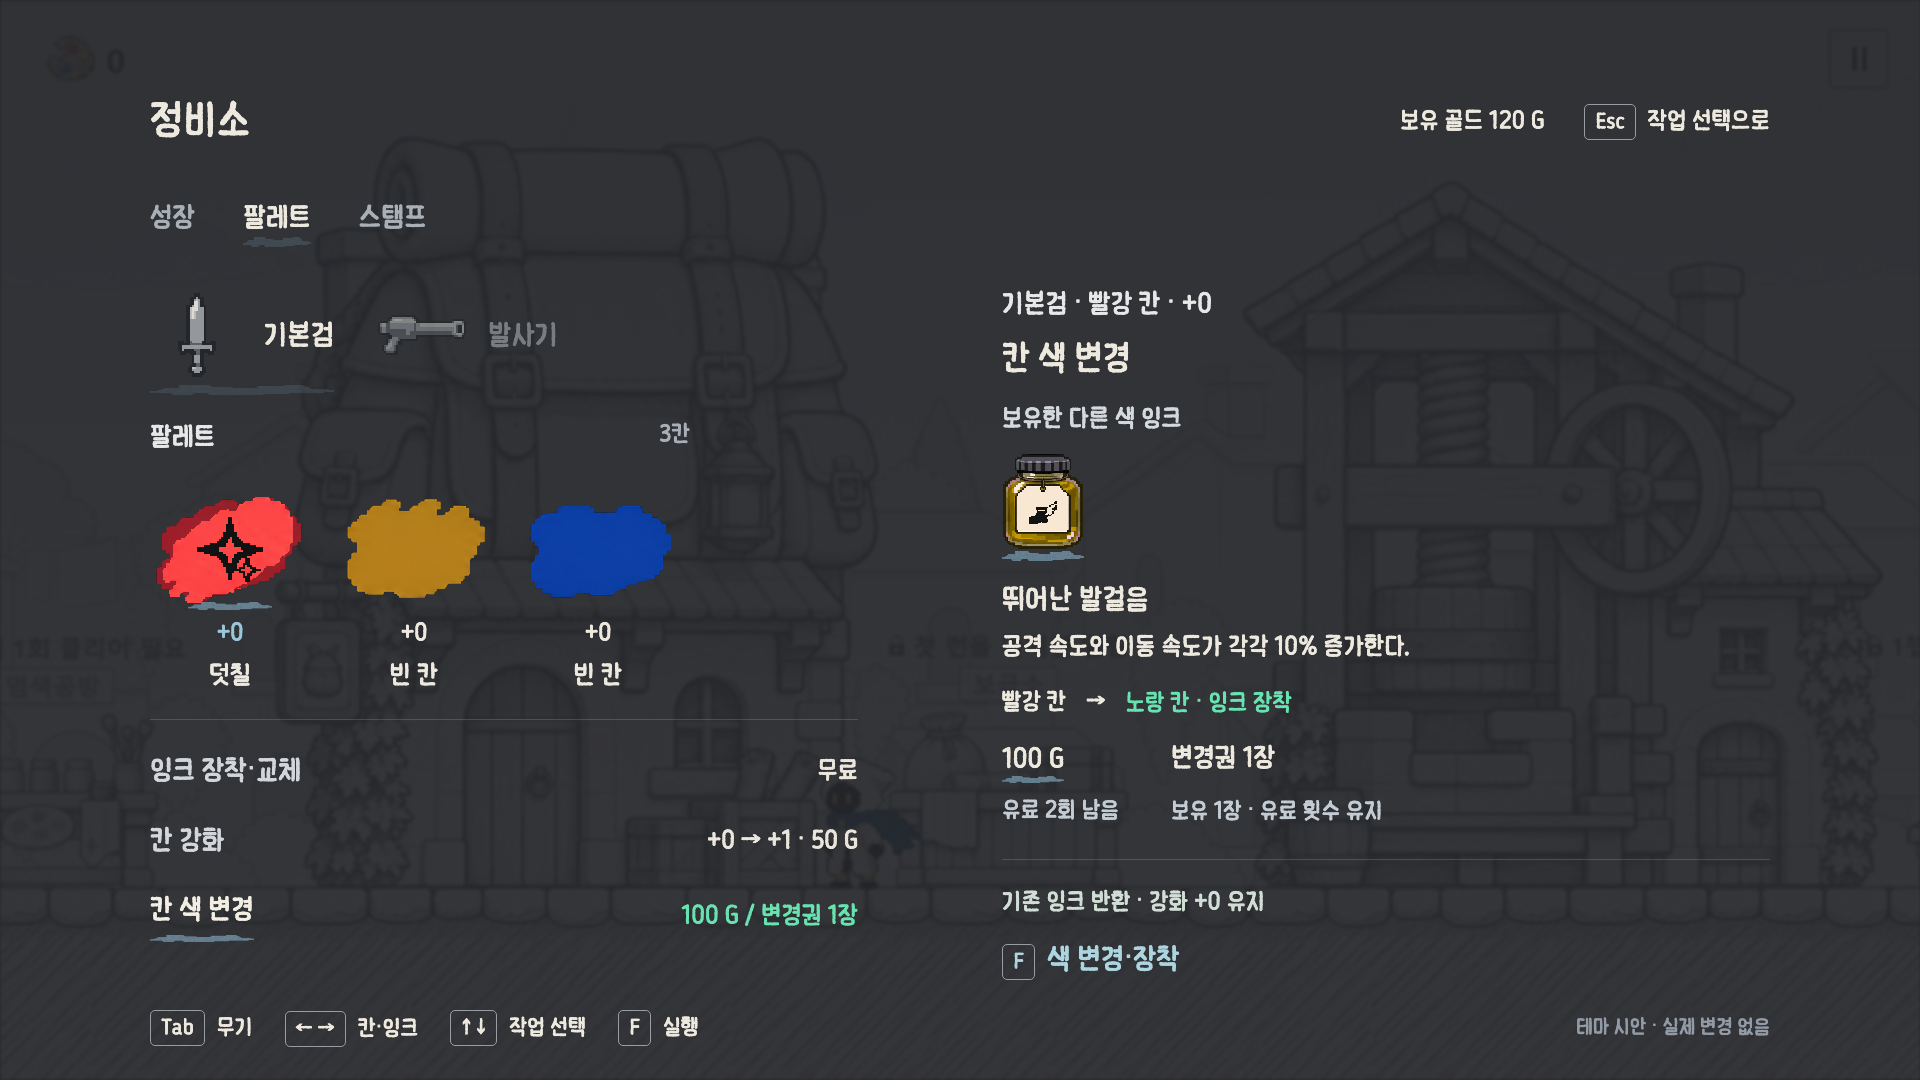
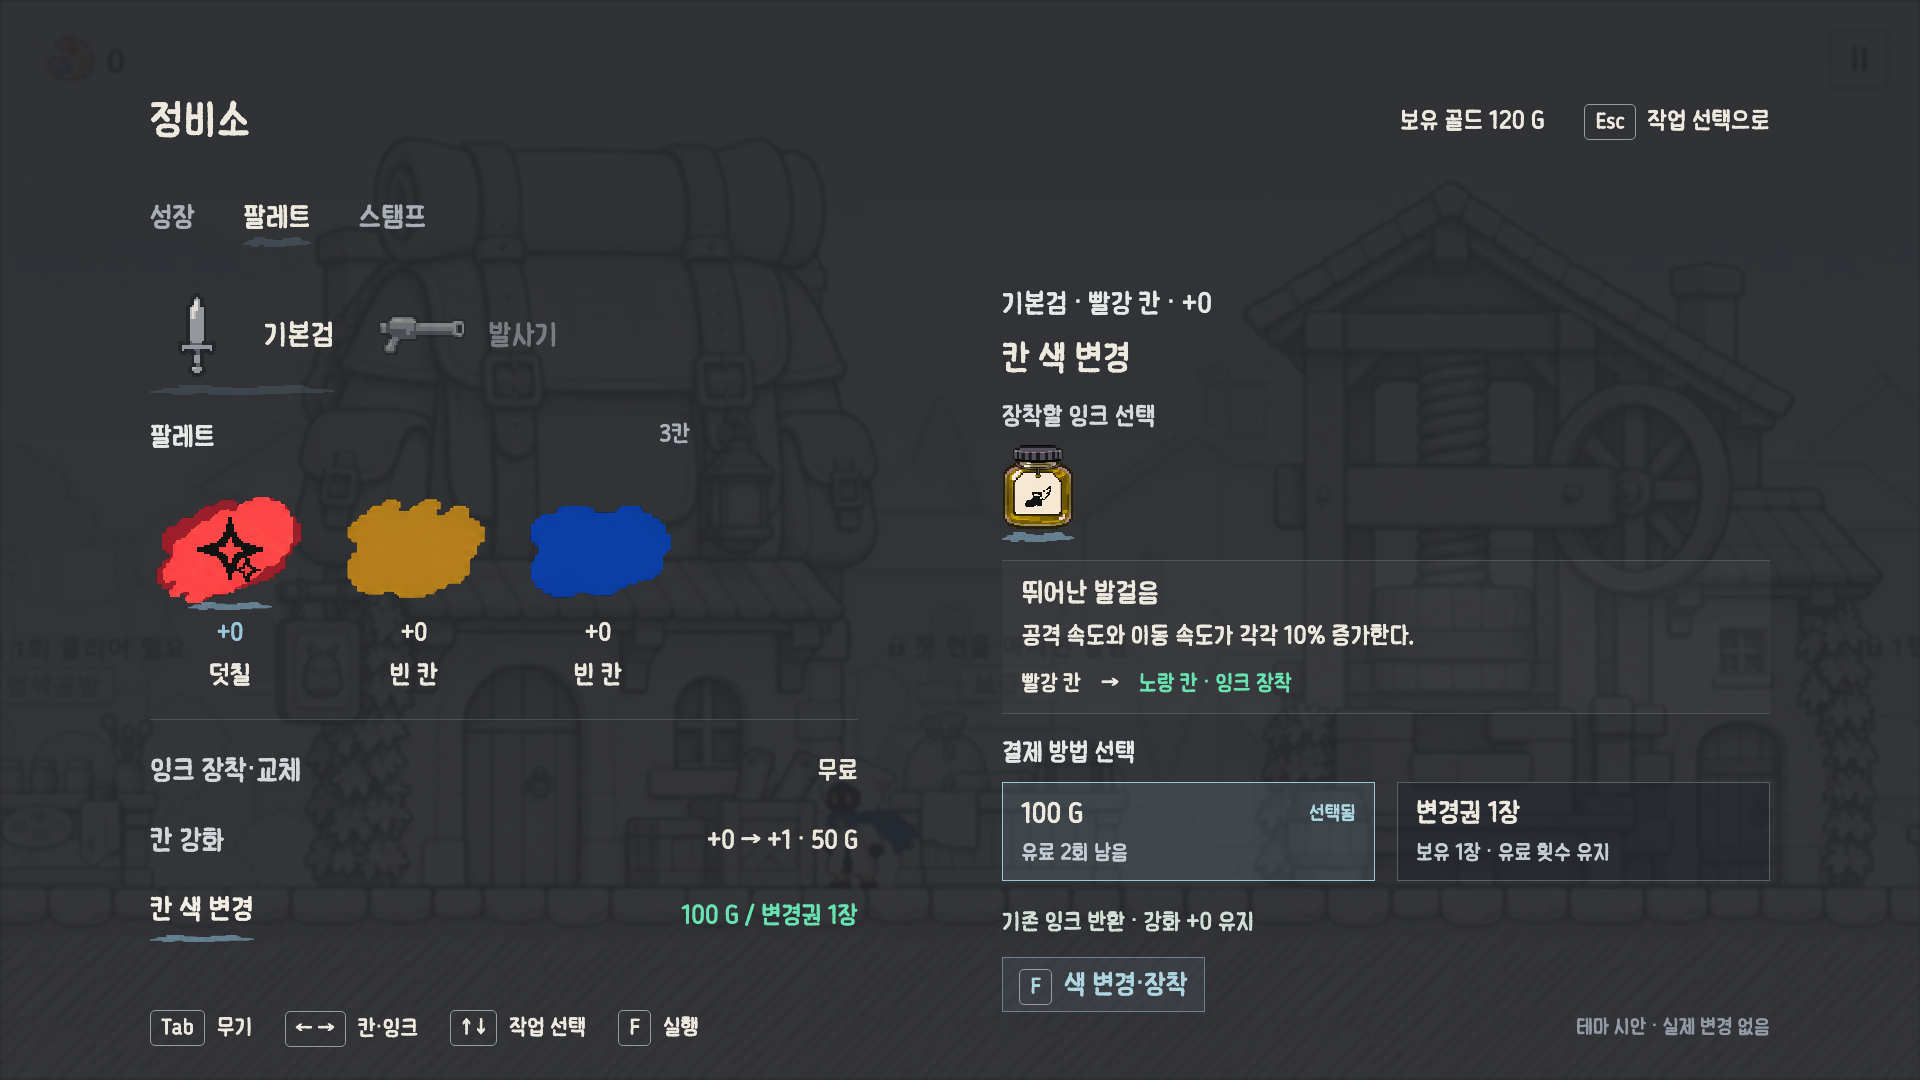
Distinguish recolor information from selectable payment controls

Changed region(s): [[0.5, 0.3667, 0.8438, 0.9472]]

diff --git a/ui/work/theme/ink-pixel-v1/maintenance-palette-v1/index.html b/ui/work/theme/ink-pixel-v1/maintenance-palette-v1/index.html
@@ -47,6 +47,27 @@ body[data-mode="color"] .payment{margin-top:0;padding-bottom:0}
 body[data-mode="color"] .payment small{margin-top:22px}
 body[data-mode="color"] .taskDecision{position:static;margin-top:34px;padding-top:24px}
 body[data-mode="color"] .decisionNote{margin-bottom:20px}
+
+/* Action surfaces and reading surface have distinct visual roles. */
+body[data-mode="color"] #detail>h2{margin-bottom:22px}
+body[data-mode="color"] .sectionLabel{margin:0 0 12px;font-size:26px}
+body[data-mode="color"] .recolorInks{margin:0 0 18px;padding-bottom:12px;min-height:98px}
+body[data-mode="color"] .recolorInks img{width:72px;height:84px}
+body[data-mode="color"] .recolorDescription{background:#ffffff08;border-top:1px solid #a8afb63b;border-bottom:1px solid #a8afb63b;padding:16px 20px;margin-bottom:24px}
+body[data-mode="color"] .recolorDescription h3{font-size:28px;margin-bottom:10px}
+body[data-mode="color"] .recolorDescription p{font-size:25px;line-height:1.45}
+body[data-mode="color"] .colorChangeSummary{font-size:23px;margin:14px 0 0}
+.paymentLabel{font-size:26px;margin:0 0 14px;color:#e5e8e7}
+body[data-mode="color"] .payment{display:grid;grid-template-columns:1fr 1fr;gap:22px;margin:0}
+body[data-mode="color"] .paymentOption{border:1px solid #919ba67a;background:#20232980;padding:14px 18px;font-size:28px;min-height:94px}
+body[data-mode="color"] .paymentOption.isSelected{border-color:#9ac7d7;background:#9ac7d720}
+body[data-mode="color"] .paymentOption:hover{background:#9ac7d72b}
+.paymentTitle{display:flex;justify-content:space-between;align-items:center;gap:12px}
+.selectedWord{font-size:20px;color:#acd5df}
+body[data-mode="color"] .payment small{margin-top:10px;font-size:22px}
+body[data-mode="color"] .taskDecision{border-top:0;margin-top:24px;padding-top:0}
+body[data-mode="color"] .decisionNote{font-size:24px;margin-bottom:16px}
+body[data-mode="color"] .taskDecision>button{padding:10px 16px;border:1px solid #9ac7d780;background:#9ac7d715;font-size:28px}
 </style><div class="screen"><div class="world"></div><main><header><h1>정비소</h1><aside><span>보유 골드 120 G</span><span><kbd>Esc</kbd><span id="escLabel">닫기</span></span></aside></header><nav><a href="../maintenance-set-v1/index.html?view=growth">성장</a><span class="active mark">팔레트</span><span>스탬프</span></nav><div class="cols"><section><div class="weapons" id="weapons"></div><div class="paletteHead"><span class="label">팔레트</span><span class="label" id="slotCount">3칸</span></div><div class="slots" id="slots"></div><div class="services"><button onclick="showService(0)"><span class="serviceTitle">칸 강화</span><span class="serviceValue"><span>+0</span><span class="serviceArrow">→</span><span class="serviceGain">+1</span></span><span class="serviceCost"><span class="costLabel">비용</span><span>50 G</span></span></button><button onclick="showService(1)"><span class="serviceTitle">칸 색 변경</span><span class="serviceValue changeValue">칸 색 변경</span><span class="serviceCost"><span class="costLabel">비용</span><span>변경권 1장</span></span></button></div></section><section id="detail"></section></div></main><footer class="foot"><span><kbd>Tab</kbd>무기</span><span><kbd>← →</kbd>칸·잉크</span><span><kbd>↑ ↓</kbd>작업 선택</span><span><kbd>F</kbd><span id="fLabel">잉크 고르기</span></span><span class="note">테마 시안 · 실제 변경 없음</span></footer></div><script>
 const A='../screen-set-v6/assets/';const inks=[{id:'ink3_red_01',name:'덧칠',color:'red',desc:'원공격 피해의 20%인 추가타 1회를 가한다.'},{id:'ink3_red_02',name:'집중 공격',color:'red',desc:'같은 몬스터를 연달아 때릴 때마다 그 몬스터에게 주는 피해가 4%씩 오른다. 최대 5중첩(20%)이다.'},{id:'ink3_red_04',name:'터지는 잉크',color:'red',desc:'표식을 터트린 몬스터에게 기준 피해 60%인 추가타 1회를 가한다.'},{id:'ink3_yellow_02',name:'뛰어난 발걸음',color:'yellow',desc:'공격 속도와 이동 속도가 각각 10% 증가한다.'},{id:'ink3_blue_01',name:'범위 증폭',color:'blue',desc:'공격 범위(반경)가 20% 증가한다.'}];const colorNames={red:'빨강',yellow:'노랑',blue:'파랑',green:'초록',purple:'보라'};const expanded=new URLSearchParams(location.search).get('slots')==='5';const colors=expanded?['red','yellow','blue','green','purple']:['red','yellow','blue'];const sets=expanded?[[0,null,null,null,null],[null,null,4,null,null]]:[[0,null,null],[null,null,4]];let mode=new URLSearchParams(location.search).get('state')==='ink'?'ink':'slot',slot=mode==='ink'?0:new URLSearchParams(location.search).get('state')==='slot'?1:-1,weapon=0,candidate=1;
 const slotStats=sets.map(row=>row.map(()=>({level:0})));
@@ -79,7 +100,7 @@ function render(){
  if(!current){body+='<p class="recolorEmpty">빈 칸은 색을 변경할 수 없습니다.</p>';}
  else if(!selected){body+='<p class="recolorEmpty">보유한 다른 색 잉크가 없습니다.</p>';}
  else{
- body+=`<p class="sectionLabel">보유한 다른 색 잉크</p><div class="recolorInks">${list.map(x=>`<button class="${colorInk===x.index?'mark':''}" onclick="selectColorInk(${x.index})" aria-label="${x.name}"><img src="${A}${x.id}-jar.png" alt="${x.name}"></button>`).join('')}</div><div class="recolorDescription"><h3>${selected.name}</h3><p>${selected.desc}</p></div><div class="colorChangeSummary"><span>${colorNames[c]} 칸</span><span>→</span><strong>${colorNames[selected.color]} 칸 · 잉크 장착</strong></div><div class="payment"><button onclick="payment='gold';message='';render()"><span class="paymentTitle ${payment==='gold'?'mark':''}">100 G</span><small>유료 ${paidLeft}회 남음</small></button><button onclick="payment='ticket';message='';render()"><span class="paymentTitle ${payment==='ticket'?'mark':''}">변경권 1장</span><small>보유 ${tickets}장 · 유료 횟수 유지</small></button></div>`;
+ body+=`<p class="sectionLabel">장착할 잉크 선택</p><div class="recolorInks">${list.map(x=>`<button class="${colorInk===x.index?'mark':''}" onclick="selectColorInk(${x.index})" aria-label="${x.name}"><img src="${A}${x.id}-jar.png" alt="${x.name}"></button>`).join('')}</div><div class="recolorDescription"><h3>${selected.name}</h3><p>${selected.desc}</p><div class="colorChangeSummary"><span>${colorNames[c]} 칸</span><span>→</span><strong>${colorNames[selected.color]} 칸 · 잉크 장착</strong></div></div><p class="paymentLabel">결제 방법 선택</p><div class="payment"><button class="paymentOption ${payment==='gold'?'isSelected':''}" aria-pressed="${payment==='gold'}" onclick="payment='gold';message='';render()"><span class="paymentTitle">100 G <span class="selectedWord">${payment==='gold'?'선택됨':''}</span></span><small>유료 ${paidLeft}회 남음</small></button><button class="paymentOption ${payment==='ticket'?'isSelected':''}" aria-pressed="${payment==='ticket'}" onclick="payment='ticket';message='';render()"><span class="paymentTitle">변경권 1장 <span class="selectedWord">${payment==='ticket'?'선택됨':''}</span></span><small>보유 ${tickets}장 · 유료 횟수 유지</small></button></div>`;
  }
  disabled=!current||!selected||(payment==='gold'?(gold<100||paidLeft<1):tickets<1);
  note=!current?'장착된 잉크가 있는 칸을 선택하세요.':!selected?'다른 색 잉크를 획득한 뒤 이용할 수 있습니다.':disabled?(payment==='gold'?(paidLeft<1?'유료 횟수 소진':'골드 부족'):'변경권 없음'):'기존 잉크 반환 · 강화 +'+level+' 유지';action='색 변경·장착';

diff --git a/ui/work/theme/ink-pixel-v1/maintenance-palette-v1/README.md b/ui/work/theme/ink-pixel-v1/maintenance-palette-v1/README.md
@@ -68,3 +68,6 @@ F/버튼으로 시안 메모리 안에서 골드와 레벨 갱신, 부족/최대
 
 ### 색 변경 하단 겹침 수정
 원인: 하단 확인 영역 절대 위치가 재화 설명 영역 높이를 고려하지 않음. 색 변경에서 확인 영역을 일반 흐름으로 전환, 재화 영역 뒤 34px/구분선 아래 24px 확보. 선택 스와시는 결제 버튼 전체가 아닌 가격/변경권 제목 아래에만 표시. 골드/변경권 선택 렌더 및 960×540 확인. `?task=color&payment=ticket`으로 변경권 선택 보기.
+
+### 설명/선택 영역 시각 구분
+장착할 잉크 선택 → 읽기 영역(이름·효과·변경 색, 은은한 배경과 얇은 상하 선) → 결제 방법 버튼 → 반환 안내/실행. 결제 버튼은 실제 선택 상태 aria-pressed와 '선택됨'을 함께 표시한다. 전체 패널 박스화 없이 조작 부분만 버튼 형태로 구분. 중앙 144px 유지. 골드/변경권/960×540 렌더 확인. 도형/배경 처리는 레이아웃 검토용 CSS이며 새로운 이미지 에셋 제작은 아님.
